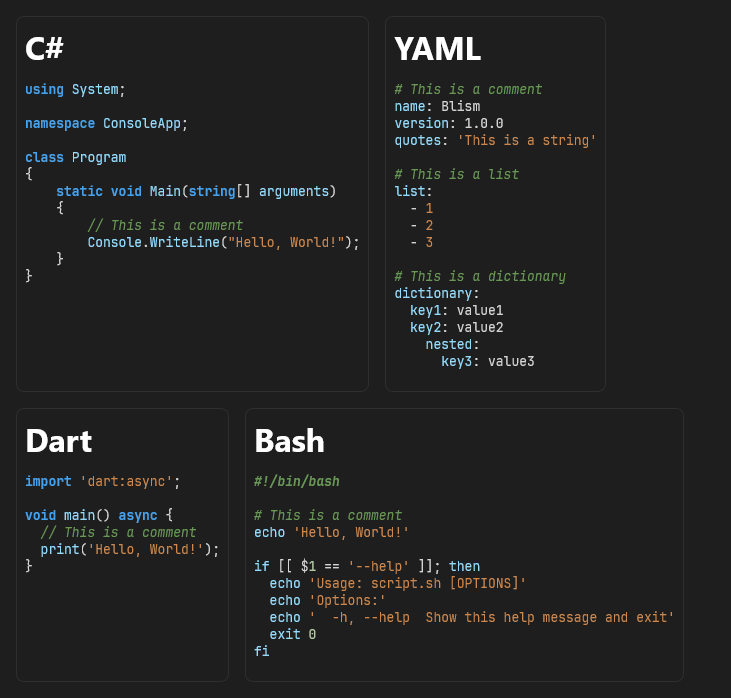
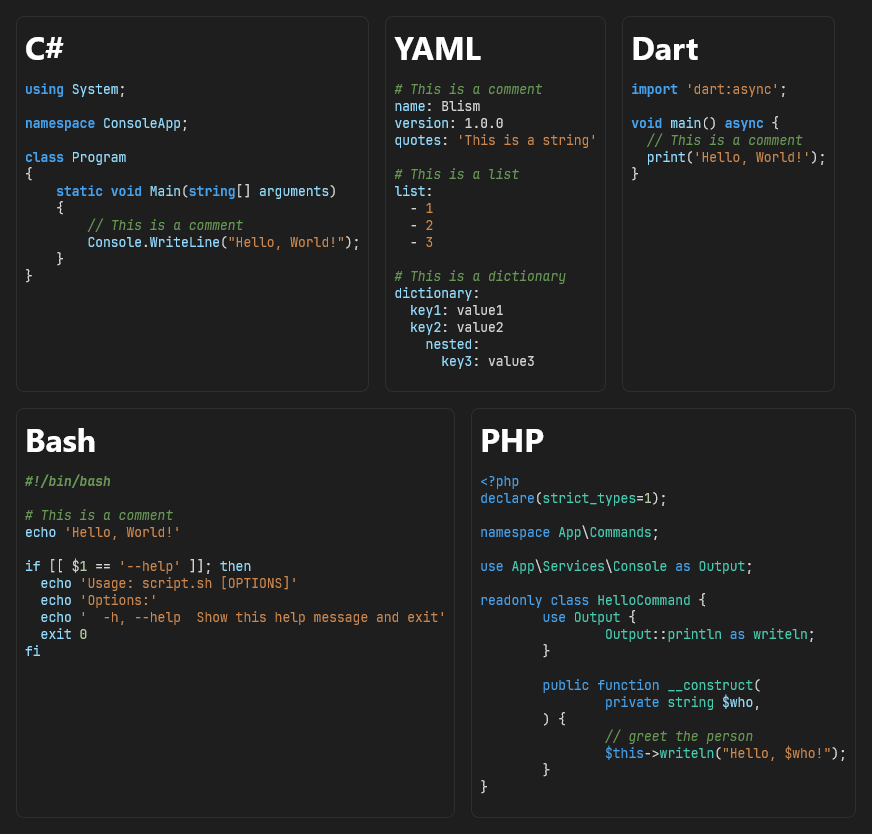
Updated screenshot & changelog

diff --git a/CHANGELOG.md b/CHANGELOG.md
@@ -1,6 +1,9 @@
 # Unreleased
 
 - Updated to .NET 9
+- Added support for tokenizing PHP
+- Added dark theme for PHP
+- Added `PhpSyntaxHighlighter` component
 
 # 1.3.2
 
